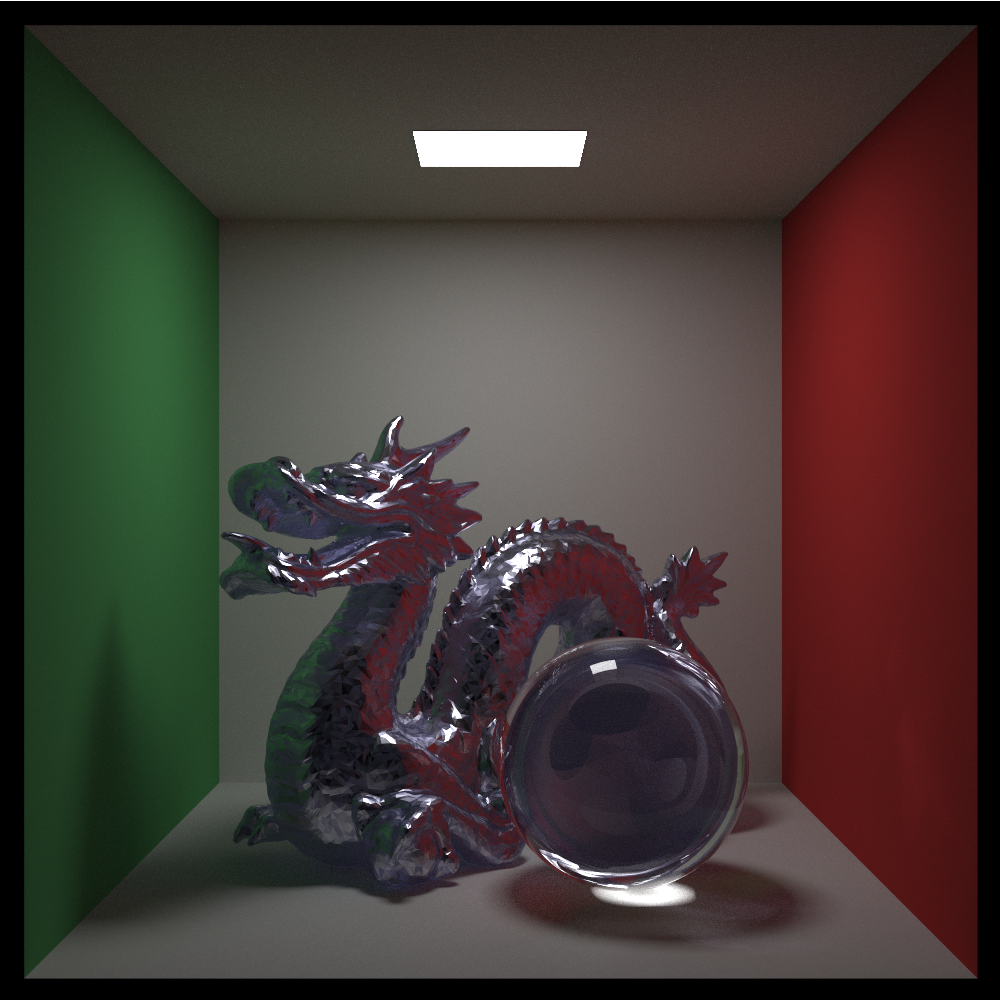
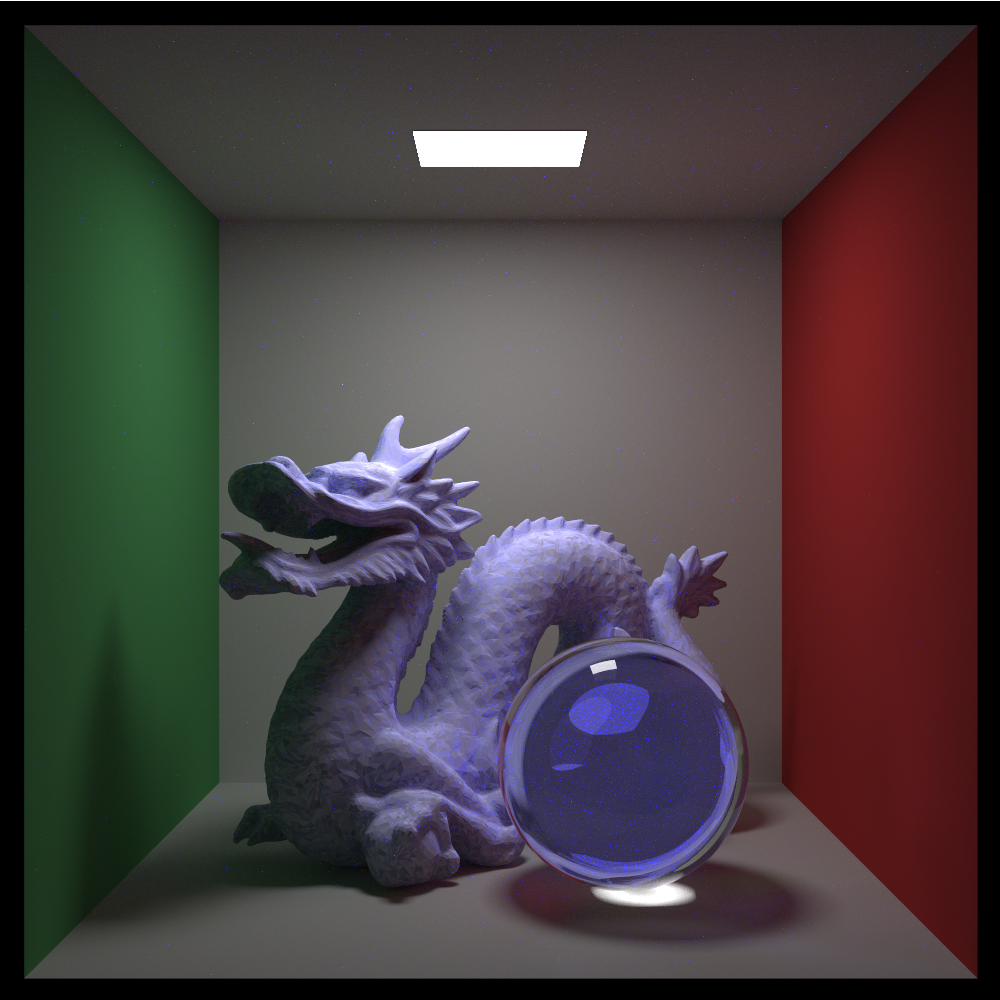
Update README.md. Update dragon image.

Changed region(s): [[0.217, 0.403, 0.744, 0.899], [0.248, 0.806, 0.279, 0.837]]

diff --git a/README.md b/README.md
@@ -9,9 +9,8 @@ Currently supports:
 * Rendering into a float64 image buffer.
 * Direct, indirect and Image-based lighting.
 * Primitives: Spheres, boxes, rectangles and triangles.
+* Wavefront OBJ import.
 * Materials: Glass, metal, Lambert, Perlin noise.
 * Textures: PNG (LDR) and Radiance (HDR).
-
-![A studio with two spheres: one glass, one metal](./images/studio.png "Sky dome test")
 
 ![The Stanford dragon in a Cornell box](./images/dragon.png "Stanford dragon")
